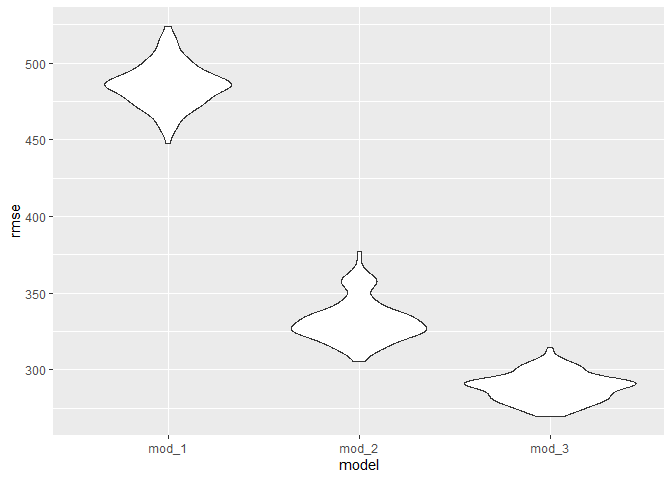
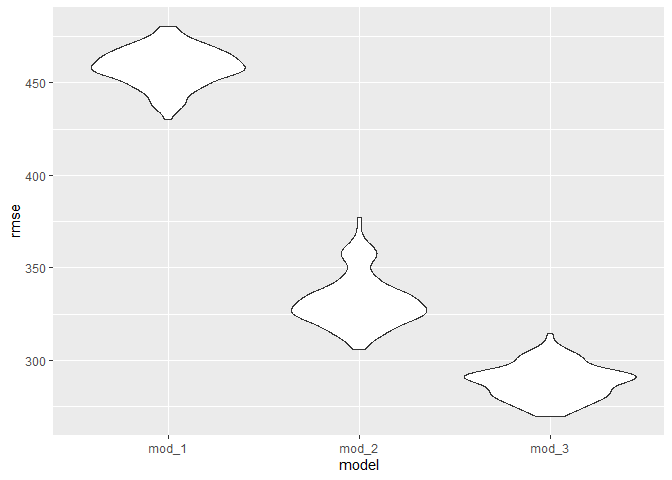
change my model in problem 2

diff --git a/p8105_hw6_yj2622.md b/p8105_hw6_yj2622.md
@@ -135,10 +135,33 @@ tidy dataset
 bwt_df = 
 bwt_data %>% 
   mutate(
-    babysex = as.factor(babysex),
-    frace = as.factor(frace),
-    malform = as.factor(malform),
-    mrace = as.factor(mrace)
+    babysex = factor(case_when(
+      babysex == 1 ~"male",
+      babysex == 2 ~"female")),
+    frace = factor(case_when(
+      frace == 1 ~"White",
+      frace == 2 ~"Black",
+      frace == 3 ~"Asian",
+      frace == 4 ~"Puerto Rican",
+      frace == 8 ~"Other",
+      frace == 9 ~"Unknown"
+    )),
+    malform = factor(case_when(
+      malform == 0 ~"absent",
+      malform == 1 ~"present"
+    )),
+    mrace = factor(case_when(
+      mrace == 1 ~"White",
+      mrace == 2 ~"Black",
+      mrace == 3 ~"Asian",
+      mrace == 4 ~"Puerto Rican",
+      mrace == 8 ~"Other"
+    ))
+  ) %>% 
+  mutate(
+    frace = fct_relevel(frace,"White", "Black", "Asian", "Puerto Rican", "Other"),
+    mrace = fct_relevel(mrace,"White", "Black", "Asian", "Puerto Rican"),
+    babysex = fct_relevel(babysex, "male")
   )
 ```
 
@@ -158,32 +181,49 @@ bwt_df %>%
 
 There is no NAs in this dataset
 
-Then I try to build a linear model based on the dataset, which examines
-the association between baby birth weight and mother’s age, weight at
-delivery and average number of cigarettes she smokes per day during
+Then I try to build a linear model based on the dataset. I concentrate
+on mom’s influence on their babies, so I mainly focus on predictors
+related to mothers.
+
+A [study](https://www.ncbi.nlm.nih.gov/pmc/articles/PMC2974327/) shows
+there is consistent relationship between pregnancy weight gain and baby
+birth weight. Another
+[study](https://academic.oup.com/humrep/article/35/1/212/5713535) shows
+size at birth is strongly related to length of gestation. In addition,
+[a paper](https://www.nature.com/articles/pr2002265) reveals that
+maternal parity had a large influence on size at birth
+
+Based on findings above, I build a model which examines the association
+between baby birth weight and mother’s weight gain during pregnancy,
+gestational age in weeks, as well as number of live births prior to this
 pregnancy.
 
 ``` r
-mod = lm(bwt ~ momage + smoken + delwt, data = bwt_df)
-broom::tidy(mod)
+mod = lm(bwt ~ wtgain + gaweeks + parity, data = bwt_df)
+
+broom::tidy(mod) %>% 
+  select(term, estimate, p.value) %>% 
+  knitr::kable(digits = 3)
 ```
 
-    ## # A tibble: 4 x 5
-    ##   term        estimate std.error statistic   p.value
-    ##   <chr>          <dbl>     <dbl>     <dbl>     <dbl>
-    ## 1 (Intercept)  1863.      60.0       31.0  4.50e-191
-    ## 2 momage         16.1      1.91       8.47 3.42e- 17
-    ## 3 smoken         -6.82     0.996     -6.84 8.79e- 12
-    ## 4 delwt           6.54     0.332     19.7  1.13e- 82
+| term        | estimate | p.value |
+| :---------- | -------: | ------: |
+| (Intercept) |  449.302 |   0.000 |
+| wtgain      |    8.886 |   0.000 |
+| gaweeks     |   62.614 |   0.000 |
+| parity      |  100.740 |   0.136 |
 
 ``` r
 bwt_df %>% 
-  select(bwt, momage, smoken, delwt) %>% 
+  select(bwt, wtgain, gaweeks, parity) %>% 
   add_residuals(model = mod) %>% 
   add_predictions(model = mod) %>% 
   ggplot(aes(x = pred, y = resid)) +
-  geom_point(alpha = .4)
+  geom_point(alpha = .4) +
+  geom_smooth(method = "lm", se = F, color = "red")
 ```
+
+    ## `geom_smooth()` using formula 'y ~ x'
 
 ![](p8105_hw6_yj2622_files/figure-gfm/unnamed-chunk-8-1.png)<!-- -->
 
@@ -192,39 +232,43 @@ Another two models:
   - One using length at birth and gestational age as predictors (main
     effects only)
 
-  - One using head circumference, length, sex, and all interactions
+  - Another using head circumference, length, sex, and all interactions
     (including the three-way interaction) between these
 
 <!-- end list -->
 
 ``` r
 mod_1 = lm(bwt ~ blength + gaweeks, data = bwt_df)
-broom::tidy(mod_1)
+
+broom::tidy(mod_1) %>% 
+  select(term, estimate, p.value) %>% 
+  knitr::kable(digits = 3)
 ```
 
-    ## # A tibble: 3 x 5
-    ##   term        estimate std.error statistic  p.value
-    ##   <chr>          <dbl>     <dbl>     <dbl>    <dbl>
-    ## 1 (Intercept)  -4348.      98.0      -44.4 0.      
-    ## 2 blength        129.       1.99      64.6 0.      
-    ## 3 gaweeks         27.0      1.72      15.7 2.36e-54
+| term        |   estimate | p.value |
+| :---------- | ---------: | ------: |
+| (Intercept) | \-4347.667 |       0 |
+| blength     |    128.556 |       0 |
+| gaweeks     |     27.047 |       0 |
 
 ``` r
 mod_2 = lm(bwt ~ bhead*blength*babysex, data = bwt_df)
-broom::tidy(mod_2)
+
+broom::tidy(mod_2) %>% 
+  select(term, estimate, p.value) %>% 
+  knitr::kable(digits = 3)
 ```
 
-    ## # A tibble: 8 x 5
-    ##   term                    estimate std.error statistic      p.value
-    ##   <chr>                      <dbl>     <dbl>     <dbl>        <dbl>
-    ## 1 (Intercept)            -7177.     1265.       -5.67  0.0000000149
-    ## 2 bhead                    182.       38.1       4.78  0.00000184  
-    ## 3 blength                  102.       26.2       3.90  0.0000992   
-    ## 4 babysex2                6375.     1678.        3.80  0.000147    
-    ## 5 bhead:blength             -0.554     0.780    -0.710 0.478       
-    ## 6 bhead:babysex2          -198.       51.1      -3.88  0.000105    
-    ## 7 blength:babysex2        -124.       35.1      -3.52  0.000429    
-    ## 8 bhead:blength:babysex2     3.88      1.06      3.67  0.000245
+| term                        |   estimate | p.value |
+| :-------------------------- | ---------: | ------: |
+| (Intercept)                 | \-7176.817 |   0.000 |
+| bhead                       |    181.796 |   0.000 |
+| blength                     |    102.127 |   0.000 |
+| babysexfemale               |   6374.868 |   0.000 |
+| bhead:blength               |    \-0.554 |   0.478 |
+| bhead:babysexfemale         |  \-198.393 |   0.000 |
+| blength:babysexfemale       |  \-123.773 |   0.000 |
+| bhead:blength:babysexfemale |      3.878 |   0.000 |
 
 Then I conduct cross validation. Firstly, split the dataset into train
 and test datasets.
@@ -239,7 +283,7 @@ Fit models and obtain RMSE
 cv_df =
 cv_df %>% 
   mutate(
-    linear_mod_1 = map(.x = train, ~lm(bwt ~ momage + smoken + delwt, data = .x)),
+    linear_mod_1 = map(.x = train, ~lm(bwt ~ wtgain + gaweeks + parity, data = .x)),
     linear_mod_2 = map(.x = train, ~lm(bwt ~ blength + gaweeks, data = .x)),
     linear_mod_3 = map(.x = train, ~lm(bwt ~  bhead*blength*babysex, data = .x))
   ) %>% 
@@ -249,6 +293,13 @@ cv_df %>%
     rmse_mod_3 = map2_dbl(.x = linear_mod_3, .y = test, ~rmse(model = .x, data = .y))
     ) 
 ```
+
+    ## Warning: Problem with `mutate()` input `rmse_mod_1`.
+    ## i prediction from a rank-deficient fit may be misleading
+    ## i Input `rmse_mod_1` is `map2_dbl(.x = linear_mod_1, .y = test, ~rmse(model = .x, data = .y))`.
+
+    ## Warning in predict.lm(model, data): prediction from a rank-deficient fit may be
+    ## misleading
 
 Make plots for comparison
 
@@ -267,6 +318,9 @@ cv_df %>%
 ```
 
 ![](p8105_hw6_yj2622_files/figure-gfm/unnamed-chunk-12-1.png)<!-- -->
+
+Based on th plot, model 3 has the lowest **RMSE** and model 1 has the
+highest **RMSE**.
 
 ## Problem 3
 
